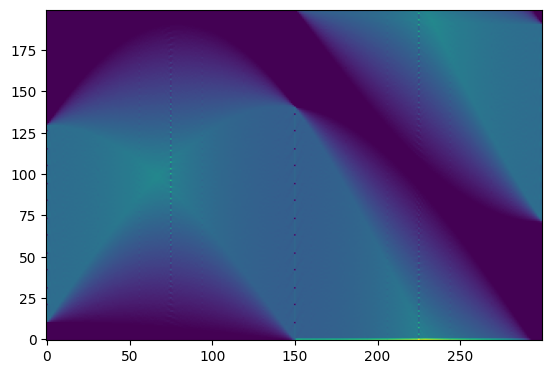
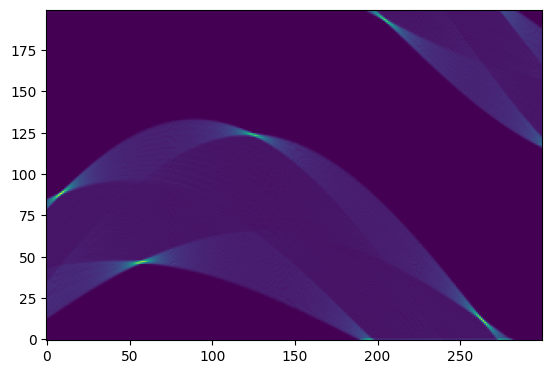
finished task and distributed methods

diff --git a/main.py b/main.py
@@ -5,9 +5,10 @@ import matplotlib.pyplot as plt
 import numpy as np
 import math
 
-folderName = 'line/'
-imageName = 'random.png'
 
+folderName = 'line/'
+imageName = 'pentagon.png'
+method = 0 # 0 - sequential, 1 - threads, 2 - distributed
 #----------------------------------------------------------------------------------------#
 # Step 1: read image
 color = 255
@@ -22,6 +23,77 @@ plt.imshow(img, )
 plt.savefig(folderName + "image.png",bbox_inches='tight')
 
 plt.close()
+
+
+def sequential(x_max,y_max,img,color,theta_dim,theta_max,r_dim,r_max):
+    hough_space = np.zeros((r_dim, theta_dim))
+
+    for x in range(x_max):
+        for y in range(y_max):
+            if img[x, y, 0] == color: continue
+            for itheta in range(theta_dim):
+                theta = 1.0 * itheta * theta_max / theta_dim
+                r = x * math.cos(theta) + y * math.sin(theta)
+                ir = r_dim * (1.0 * r) / r_max
+                hough_space[int(ir), itheta] = hough_space[int(ir), itheta] + 1
+    return hough_space
+
+
+import asyncio
+
+
+
+async def threads(x,y_max,img,color,theta_dim,theta_max,r_dim,r_max,hough_space):
+    for y in range(y_max):
+        if img[x, y, 0] == color: continue
+        for itheta in range(theta_dim):
+            theta = 1.0 * itheta * theta_max / theta_dim
+            r = x * math.cos(theta) + y * math.sin(theta)
+            ir = r_dim * (1.0 * r) / r_max
+            hough_space[int(ir), itheta] = hough_space[int(ir), itheta] + 1
+
+
+async def parallel(x_max,y_max,img,color,theta_dim,theta_max,r_dim,r_max):
+    # Schedule three calls *concurrently*:
+    hough_space = np.zeros((r_dim, theta_dim))
+    await asyncio.gather(*[threads(x,y_max,img,color,theta_dim,theta_max,r_dim,r_max,hough_space) for x in range(x_max)])
+    return hough_space
+
+from mpi4py import MPI
+
+def seqforx(x_start,x_end,y_max,img,color,theta_dim,theta_max,r_dim,r_max):
+    hough_space = np.zeros((r_dim, theta_dim))
+    for x in range(x_start,x_end):
+        for y in range(y_max):
+            if img[x, y, 0] == color: continue
+            for itheta in range(theta_dim):
+                theta = 1.0 * itheta * theta_max / theta_dim
+                r = x * math.cos(theta) + y * math.sin(theta)
+                ir = r_dim * (1.0 * r) / r_max
+                hough_space[int(ir), itheta] = hough_space[int(ir), itheta] + 1
+    if MPI.COMM_WORLD.Get_rank() == 0: return hough_space
+    MPI.COMM_WORLD.send(hough_space, dest=0, tag=98)
+
+def distributed(x_max,y_max,img,color,theta_dim,theta_max,r_dim,r_max):
+    comm = MPI.COMM_WORLD
+    rank = comm.Get_rank()
+    size = comm.Get_size()
+    hough_space = np.zeros((r_dim,theta_dim))
+    xrange = x_max//size
+    allotedx = rank*xrange
+    if rank == 0:
+        hough_space = seqforx(allotedx,allotedx+xrange,y_max,img,color,theta_dim,theta_max,r_dim,r_max)
+    else : seqforx(allotedx,allotedx+xrange,y_max,img,color,theta_dim,theta_max,r_dim,r_max)
+
+    if rank == 0:
+        for i in range(1, size):
+            data = comm.recv(source=i,tag=98)
+            hough_space = np.add(hough_space,data)
+        return hough_space
+
+
+
+
 
 #----------------------------------------------------------------------------------------#
 # Step 2: Hough Space
@@ -40,36 +112,33 @@ r_max = math.hypot(x_max, y_max)
 r_dim = 200
 theta_dim = 300
 
-hough_space = np.zeros((r_dim,theta_dim))
+if method == 0:
+    hough_space = sequential(x_max,y_max,img,color,theta_dim,theta_max,r_dim,r_max)
+elif method == 1:
+    hough_space = asyncio.run(parallel(x_max,y_max,img,color,theta_dim,theta_max,r_dim,r_max))
+else:
+    hough_space = distributed(x_max,y_max,img,color,theta_dim,theta_max,r_dim,r_max)
 
-for x in range(x_max):
-    for y in range(y_max):
-        if img[x,y,0] == color: continue
-        for itheta in range(theta_dim):
-            theta = 1.0 * itheta * theta_max / theta_dim
-            r = x * math.cos(theta) + y * math.sin(theta)
-            ir = r_dim * ( 1.0 * r ) / r_max
-            hough_space[int(ir),itheta] = hough_space[int(ir),itheta] + 1
+if MPI.COMM_WORLD.Get_rank() == 0:
+    plt.imshow(hough_space, origin='lower')
+    plt.xlim(0,theta_dim)
+    plt.ylim(0,r_dim)
 
-plt.imshow(hough_space, origin='lower')
-plt.xlim(0,theta_dim)
-plt.ylim(0,r_dim)
+    tick_locs = [i for i in range(0,theta_dim,40)]
+    tick_lbls = [round( (1.0 * i * theta_max) / theta_dim,1) for i in range(0,theta_dim,40)]
+    plt.xticks(tick_locs, tick_lbls)
 
-tick_locs = [i for i in range(0,theta_dim,40)]
-tick_lbls = [round( (1.0 * i * theta_max) / theta_dim,1) for i in range(0,theta_dim,40)]
-plt.xticks(tick_locs, tick_lbls)
+    tick_locs = [i for i in range(0,r_dim,20)]
+    tick_lbls = [round( (1.0 * i * r_max ) / r_dim,1) for i in range(0,r_dim,20)]
+    plt.yticks(tick_locs, tick_lbls)
 
-tick_locs = [i for i in range(0,r_dim,20)]
-tick_lbls = [round( (1.0 * i * r_max ) / r_dim,1) for i in range(0,r_dim,20)]
-plt.yticks(tick_locs, tick_lbls)
+    plt.xlabel(r'Theta')
+    plt.ylabel(r'r')
+    plt.title('Hough Space')
 
-plt.xlabel(r'Theta')
-plt.ylabel(r'r')
-plt.title('Hough Space')
+    plt.savefig(folderName + "hough_space_r_theta.png",bbox_inches='tight')
 
-plt.savefig(folderName + "hough_space_r_theta.png",bbox_inches='tight')
-
-plt.close()
+    plt.close()
 
 #----------------------------------------------------------------------------------------#
 # Find maximas 1
@@ -106,70 +175,71 @@ for d in range(5):
 import scipy.ndimage.filters as filters
 import scipy.ndimage as ndimage
 
-neighborhood_size = 20
-threshold = 140
+if MPI.COMM_WORLD.Get_rank() == 0:
+    neighborhood_size = 20
+    threshold = 140
 
-data_max = filters.maximum_filter(hough_space, neighborhood_size)
-maxima = (hough_space == data_max)
+    data_max = filters.maximum_filter(hough_space, neighborhood_size)
+    maxima = (hough_space == data_max)
 
 
-data_min = filters.minimum_filter(hough_space, neighborhood_size)
-diff = ((data_max - data_min) > threshold)
-maxima[diff == 0] = 0
+    data_min = filters.minimum_filter(hough_space, neighborhood_size)
+    diff = ((data_max - data_min) > threshold)
+    maxima[diff == 0] = 0
 
-labeled, num_objects = ndimage.label(maxima)
-slices = ndimage.find_objects(labeled)
+    labeled, num_objects = ndimage.label(maxima)
+    slices = ndimage.find_objects(labeled)
 
-x, y = [], []
-for dy,dx in slices:
-    x_center = (dx.start + dx.stop - 1)/2
-    x.append(x_center)
-    y_center = (dy.start + dy.stop - 1)/2
-    y.append(y_center)
+    x, y = [], []
+    for dy,dx in slices:
+        x_center = (dx.start + dx.stop - 1)/2
+        x.append(x_center)
+        y_center = (dy.start + dy.stop - 1)/2
+        y.append(y_center)
 
-print(x)
-print(y)
+    print(x)
+    print(y)
 
-plt.imshow(hough_space, origin='lower')
-plt.savefig(folderName + 'hough_space_i_j.png', bbox_inches = 'tight')
+    plt.imshow(hough_space, origin='lower')
+    plt.savefig(folderName + 'hough_space_i_j.png', bbox_inches = 'tight')
 
-plt.autoscale(False)
-plt.plot(x,y, 'ro')
-plt.savefig(folderName + 'hough_space_maximas.png', bbox_inches = 'tight')
-
-plt.close()
-
-#----------------------------------------------------------------------------------------#
-# Step 4: Plot lines
-
-line_index = 1
-
-for i,j in zip(y, x):
-
-    r = round( (1.0 * i * r_max ) / r_dim,1)
-    theta = round( (1.0 * j * theta_max) / theta_dim,1)
-
-    fig, ax = plt.subplots()
-
-    ax.imshow(img)
-
-    ax.autoscale(False)
-
-    px = []
-    py = []
-    for i in range(-y_max-40,y_max+40,1):
-        px.append( math.cos(-theta) * i - math.sin(-theta) * r )
-        py.append( math.sin(-theta) * i + math.cos(-theta) * r )
-
-    ax.plot(px,py, linewidth=10)
-
-    plt.savefig(folderName + "image_line_"+ "%02d" % line_index +".png",bbox_inches='tight')
-
-    #plt.show()
+    plt.autoscale(False)
+    plt.plot(x,y, 'ro')
+    plt.savefig(folderName + 'hough_space_maximas.png', bbox_inches = 'tight')
 
     plt.close()
 
-    line_index = line_index + 1
+    #----------------------------------------------------------------------------------------#
+    # Step 4: Plot lines
+
+    line_index = 1
+
+    for i,j in zip(y, x):
+
+        r = round( (1.0 * i * r_max ) / r_dim,1)
+        theta = round( (1.0 * j * theta_max) / theta_dim,1)
+
+        fig, ax = plt.subplots()
+
+        ax.imshow(img)
+
+        ax.autoscale(False)
+
+        px = []
+        py = []
+        for i in range(-y_max-40,y_max+40,1):
+            px.append( math.cos(-theta) * i - math.sin(-theta) * r )
+            py.append( math.sin(-theta) * i + math.cos(-theta) * r )
+
+        ax.plot(px,py, linewidth=10)
+
+        plt.savefig(folderName + "image_line_"+ "%02d" % line_index +".png",bbox_inches='tight')
+
+        #plt.show()
+
+        plt.close()
+
+        line_index = line_index + 1
 
 #----------------------------------------------------------------------------------------#
 # Plot lines
